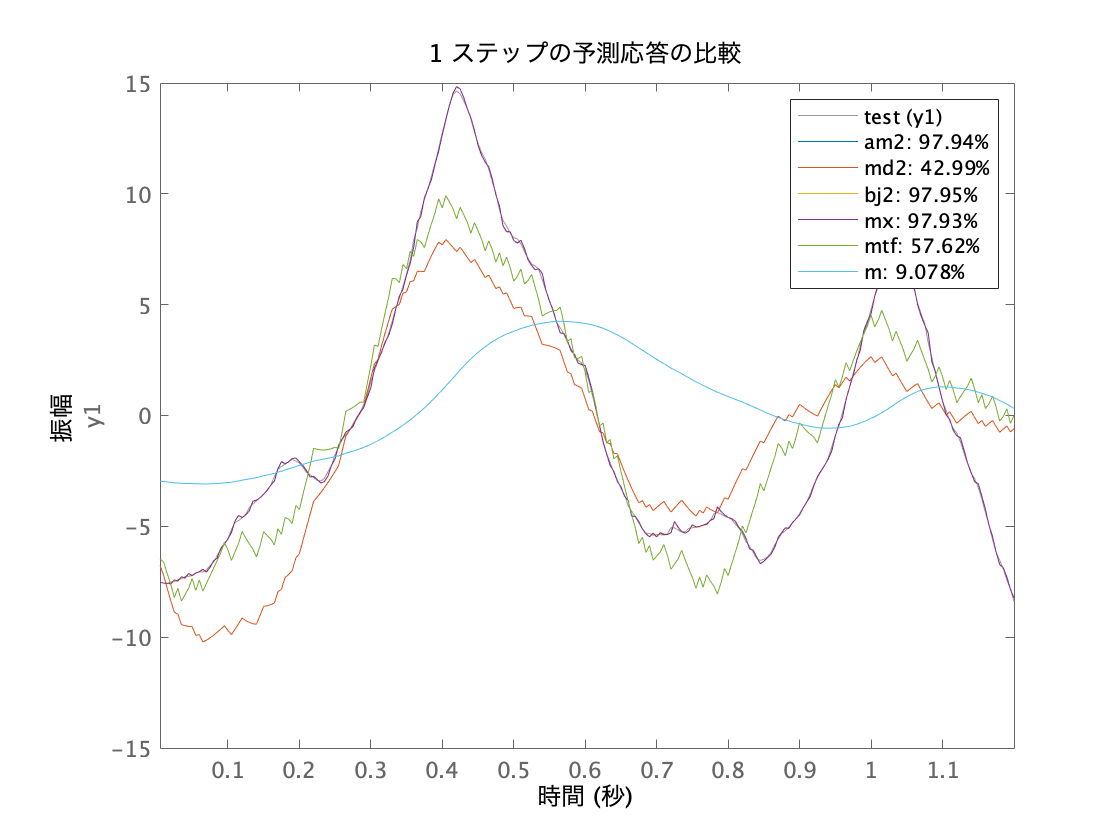
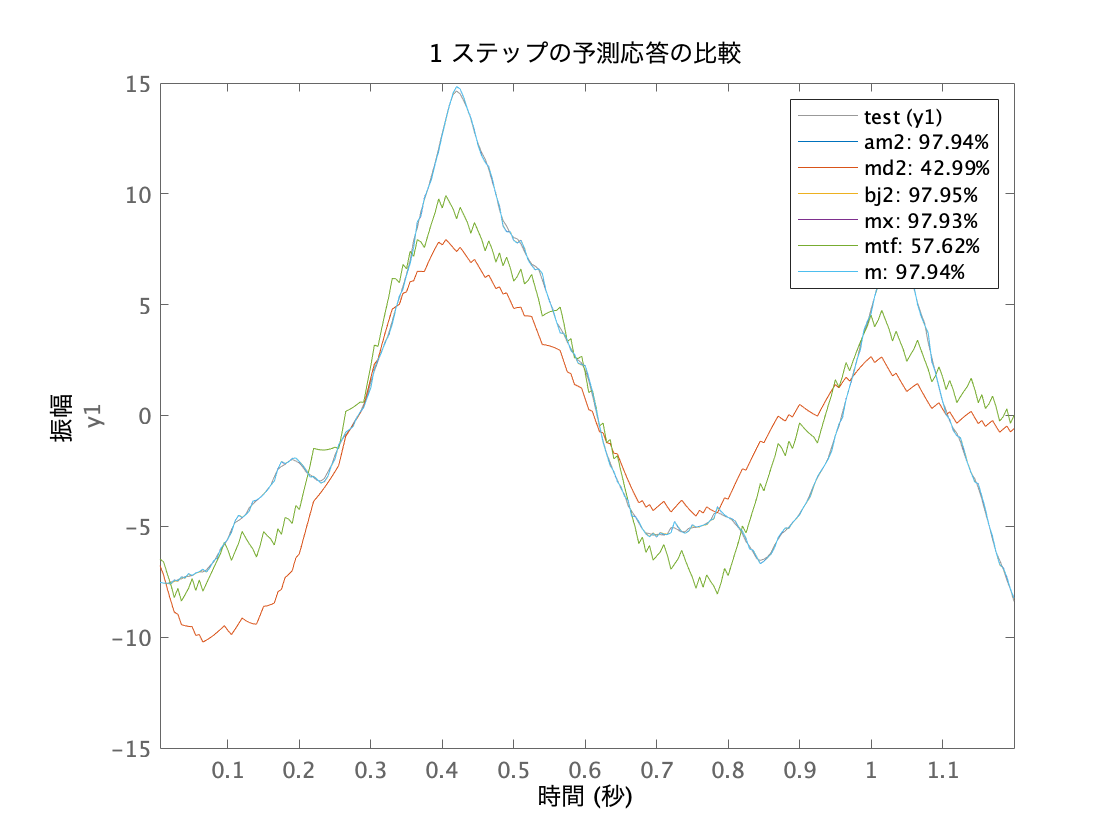
update

diff --git a/Identification.m b/Identification.m
@@ -12,14 +12,16 @@ Ts = 0.005
 data = iddata(y1,u2,Ts) % iddata オブジェクトの生成% y:出力，u:入力，Ts:サンプリング周期 % 入出力データの表示
 test = iddata(y2,u2,Ts) % iddata オブジェクトの生成% y:出力，u:入力，Ts:サンプリング周期 % 入出力データの表示
 
+figure(1)
 plot(test)
 
 % 相関解析法によるインパルス応答の推定
-ir = impulse(data, 'sd', 3)
-% sr = step(data)
-figure(1);
-plot(ir)
+% ir = impulse(data, 'sd', 3)
+% % sr = step(data)
+% figure(1);
+% plot(ir)
 
+m = ssest(data)
 % GS = spa(data);
 % h = bodeplot(GS); % bodeplot returns a plot handle, which bode does not
 % ax = axis; axis([0.1 10 ax(3:4)])`
@@ -35,25 +37,26 @@ plot(ir)
 % figure();
 % compare(data, m1)
 
+figure(2)
 mtf = tfest(test, 2, 2) % transfer function with 2 zeros and 2 poles
 mx = arx(test,[2 2 1])
-compare(test,m,mtf,mx)
+compare(test,m,mtf,mx,1)
 
-md1 = tfest(data,2,2,'Ts',Ts)  % two poles and 2 zeros (counted as roots of polynomials in z^-1)
-md2 = oe(data,[2 2 1]) 
-compare(test, md1, md2)
+% md1 = tfest(data,2,2,'Ts',Ts)  % two poles and 2 zeros (counted as roots of polynomials in z^-1)
+% md2 = oe(data,[2 2 1]) 
+% compare(test, md1, md2)
 
-resid(test,md2) % plots the result of residual analysis
+% resid(test,md2) % plots the result of residual analysis
 
-am2 = armax(data,[2 2 2 1])  % 2nd order ARMAX model
-bj2 = bj(data,[2 2 2 2 1])   % 2nd order BOX-JENKINS model
+% am2 = armax(data,[2 2 2 1])  % 2nd order ARMAX model
+% bj2 = bj(data,[2 2 2 2 1])   % 2nd order BOX-JENKINS model
 
-clf
-figure(1);
-compare(test,am2,md2,bj2,mx,mtf,m)
+% clf
+% figure(1);
+% compare(test,am2,md2,bj2,mx,mtf,m)
 
-figure(2);
-compare(test,am2,md2,bj2,mx,mtf,m,1)
+% figure(2);
+% compare(test,am2,md2,bj2,mx,mtf,m,1)
 
-figure(3);
-resid(test,am2)
+% figure(3);
+% resid(test,am2)

diff --git a/ss_model.m b/ss_model.m
@@ -1,0 +1,44 @@
+[A,delimiterOut] = importdata('data.csv')
+[B,delimiterOut] = importdata('test.csv')
+% disp(A.data(:,2));
+
+y1 = A.data(:,5);
+u1 = A.data(:,3);
+
+y2 = A.data(:,5);
+u2 = A.data(:,3);
+
+Ts = 0.005
+data = iddata(y1,u2,Ts) % iddata オブジェクトの生成% y:出力，u:入力，Ts:サンプリング周期 % 入出力データの表示
+test = iddata(y2,u2,Ts) % iddata オブジェクトの生成% y:出力，u:入力，Ts:サンプリング周期 % 入出力データの表示
+
+
+% 状態空間モデルの同定
+% u = U4_pre;
+% y = [Y4_ang_pre Y4_vel_pre];
+% z = iddata(y,u,0.005);
+% u_post = U4_post;
+% y_post = [Y4_ang_post Y4_vel_post];
+% z_post = iddata(y_post,u_post,0.005);
+
+As = [0 1;0 NaN];
+Bs = [0;NaN];
+Cs = [0 0;0 1];
+Ds = [0; 0];
+Ks = [0 0;0 0];
+X0s =[0 ;0];
+
+A = [0 1; 0 -1];
+B = [0 ; 0.28];
+C = [0 ; 1];
+D = zeros(2,1);
+
+ms = idss(A,B,C,D);
+
+setstruc(ms , As , Bs , Cs, Ds, Ks, X0s);
+set(ms,'Ts',0);
+
+dcmodel = pem(data, ms ,'trace', 'on')
+figure();
+% compare(z,dcmodel);
+compare(test,dcmodel);

diff --git a/Identification.py b/Identification.py
@@ -132,6 +132,7 @@ class Iden:
         print(ss)
 
     def AutoCorrelation(self):
+        
         n1 = 50
         n2 = 30050
         Decimation = 50
@@ -157,9 +158,10 @@ class Iden:
             r[i] = r[i] / y
 
         plt.plot(np.arange(N), r)
-        # plt.xlabel('Time [sec]')
-        # plt.ylabel('MSL')
-        plt.show()
+        plt.xlabel('Rag')
+        plt.ylabel('Auto Correlation')
+        plt.savefig("AC.png")
+        # plt.show()
 
     def CorrelationAnalysis(self):
         var_u = 0
@@ -217,6 +219,6 @@ if __name__ == '__main__':
     ID.Arrangement()
     # ID.graph_sub()
     # ID.StateSpace()
-    # ID.AutoCorrelation()
-    ID.CorrelationAnalysis()
+    ID.AutoCorrelation()
+    # ID.CorrelationAnalysis()
     # ID.CsvOut()

diff --git a/test.m b/test.m
@@ -31,6 +31,6 @@ bodeplot(m,GS)
 ax = axis; axis([0.1 10 ax(3:4)])
 
 % 簡単な伝達関数の推定
-mtf = tfest(ze, 2, 2) % transfer function with 2 zeros and 2 poles
+ mtf = tfest(ze, 2, 2) % transfer function with 2 zeros and 2 poles
 mx = arx(ze,[2 2 1])
 compare(zv,m,mtf,mx)
